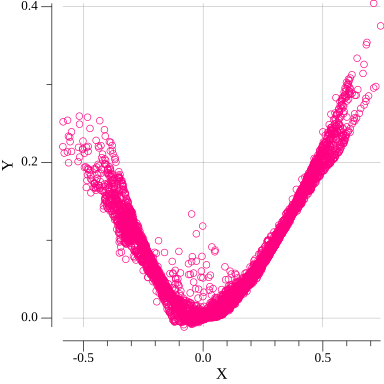
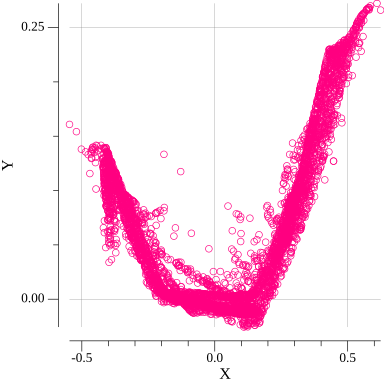
update MSE loss function + check if GANs examples still works correctly

diff --git a/cmd/examples/generate_smiley_face/main.go b/cmd/examples/generate_smiley_face/main.go
@@ -122,7 +122,7 @@ func main() {
 
 	// Define loss function for GAN as
 	targetDiscriminatorGAN := gorgonia.NewTensor(ganGraph, gorgonia.Float64, definedGAN.Out().Dims(), gorgonia.WithShape(definedGAN.Out().Shape()...), gorgonia.WithName("gan_discriminator_target"))
-	cost, err := gan.MSELoss(definedGAN.Out(), targetDiscriminatorGAN, batchSize)
+	cost, err := gan.MSELoss(definedGAN.Out(), targetDiscriminatorGAN)
 	if err != nil {
 		panic(err)
 	}
@@ -135,7 +135,7 @@ func main() {
 
 	// Define loss function for Discriminator in training mode as
 	targetDiscriminatorTrain := gorgonia.NewTensor(trainDiscriminatorGraph, gorgonia.Float64, 2, gorgonia.WithShape(2*batchSize, 1), gorgonia.WithName("discriminator_target"))
-	costDiscriminatorTrain, err := gan.MSELoss(discriminatorTrain.Out(), targetDiscriminatorTrain, batchSize)
+	costDiscriminatorTrain, err := gan.MSELoss(discriminatorTrain.Out(), targetDiscriminatorTrain)
 	if err != nil {
 		panic(err)
 	}
@@ -426,7 +426,7 @@ func defineGenerator(g *gorgonia.ExprGraph) *gan.GeneratorNet {
 				WeightNode:   gen_w0,
 				BiasNode:     nil,
 				Type:         gan.LayerConvolutional,
-				Activation:   gan.Sigmoid,
+				Activation:   gan.Rectify,
 				KernelHeight: 3,
 				KernelWidth:  3,
 				Padding:      []int{0, 0},
@@ -445,7 +445,7 @@ func defineGenerator(g *gorgonia.ExprGraph) *gan.GeneratorNet {
 				WeightNode:   gen_w1,
 				BiasNode:     nil,
 				Type:         gan.LayerConvolutional,
-				Activation:   gan.Sigmoid,
+				Activation:   gan.Rectify,
 				KernelHeight: 3,
 				KernelWidth:  3,
 				Padding:      []int{0, 0},
@@ -464,7 +464,7 @@ func defineGenerator(g *gorgonia.ExprGraph) *gan.GeneratorNet {
 				WeightNode:   gen_w2,
 				BiasNode:     nil,
 				Type:         gan.LayerConvolutional,
-				Activation:   gan.Sigmoid,
+				Activation:   gan.Rectify,
 				KernelHeight: 3,
 				KernelWidth:  3,
 				Padding:      []int{0, 0},
@@ -483,7 +483,7 @@ func defineGenerator(g *gorgonia.ExprGraph) *gan.GeneratorNet {
 				WeightNode:   gen_w3,
 				BiasNode:     nil,
 				Type:         gan.LayerConvolutional,
-				Activation:   gan.Sigmoid,
+				Activation:   gan.Rectify,
 				KernelHeight: 3,
 				KernelWidth:  3,
 				Padding:      []int{0, 0},

diff --git a/cmd/examples/parabola/main.go b/cmd/examples/parabola/main.go
@@ -99,46 +99,26 @@ func main() {
 	tmGenerator := gorgonia.NewTapeMachine(ganGraph)
 	defer tmGenerator.Close()
 
-	// Define loss function for GAN as
-	// loss{i} = (gan_out{i} - target{i})^2
 	targetDiscriminatorGAN := gorgonia.NewMatrix(ganGraph, gorgonia.Float64, gorgonia.WithShape(definedGAN.Out().Shape()...), gorgonia.WithName("gan_discriminator_target"))
-	lossDiscriminatorGAN := gorgonia.Must(
-		gorgonia.Square(
-			gorgonia.Must(
-				gorgonia.Sub(
-					definedGAN.Out(),
-					targetDiscriminatorGAN,
-				),
-			),
-		),
-	)
-	gorgonia.WithName("gan_discriminator_loss")(lossDiscriminatorGAN)
-	// Define cost function for GAN as
-	// cost = AVG(loss{i=1...N})
-	cost := gorgonia.Must(gorgonia.Mean(lossDiscriminatorGAN))
+	/* Define cost for GAN as*/
+	cost, err := gan.MSELoss(definedGAN.Out(), targetDiscriminatorGAN)
+	if err != nil {
+		panic(err)
+	}
+	gorgonia.WithName("gan_discriminator_loss")(cost)
 	// Define gradients for GAN
 	_, err = gorgonia.Grad(cost, definedGAN.Learnables()...)
 	if err != nil {
 		panic(err)
 	}
 
-	// Define loss function for Discriminator in training mode as
-	// loss{i} = (gan_out{i} - target{i})^2
 	targetDiscriminatorTrain := gorgonia.NewMatrix(trainDiscriminatorGraph, gorgonia.Float64, gorgonia.WithShape(2*batchSize, 1), gorgonia.WithName("discriminator_target"))
-	losses0_train := gorgonia.Must(
-		gorgonia.Square(
-			gorgonia.Must(
-				gorgonia.Sub(
-					discriminatorTrain.Out(),
-					targetDiscriminatorTrain,
-				),
-			),
-		),
-	)
-	gorgonia.WithName("discriminator_loss")(losses0_train)
-	// Define cost function for Discriminator in training mode as
-	// cost = AVG(loss{i=1...N})
-	costDiscriminatorTrain := gorgonia.Must(gorgonia.Mean(losses0_train))
+	/* Define cost for Distriminator in training mode as*/
+	costDiscriminatorTrain, err := gan.MSELoss(discriminatorTrain.Out(), targetDiscriminatorTrain)
+	if err != nil {
+		panic(err)
+	}
+	gorgonia.WithName("discriminator_loss")(costDiscriminatorTrain)
 	// Define gradients for Discriminator in training mode
 	_, err = gorgonia.Grad(costDiscriminatorTrain, discriminatorTrain.Learnables()...)
 	if err != nil {

diff --git a/cmd/examples/sin/main.go b/cmd/examples/sin/main.go
@@ -99,46 +99,26 @@ func main() {
 	tmGenerator := gorgonia.NewTapeMachine(ganGraph)
 	defer tmGenerator.Close()
 
-	// Define loss function for GAN as
-	// loss{i} = (gan_out{i} - target{i})^2
 	targetDiscriminatorGAN := gorgonia.NewMatrix(ganGraph, gorgonia.Float64, gorgonia.WithShape(definedGAN.Out().Shape()...), gorgonia.WithName("gan_discriminator_target"))
-	lossDiscriminatorGAN := gorgonia.Must(
-		gorgonia.Square(
-			gorgonia.Must(
-				gorgonia.Sub(
-					definedGAN.Out(),
-					targetDiscriminatorGAN,
-				),
-			),
-		),
-	)
-	gorgonia.WithName("gan_discriminator_loss")(lossDiscriminatorGAN)
-	// Define cost function for GAN as
-	// cost = AVG(loss{i=1...N})
-	cost := gorgonia.Must(gorgonia.Mean(lossDiscriminatorGAN))
+	/* Define cost for GAN as*/
+	cost, err := gan.MSELoss(definedGAN.Out(), targetDiscriminatorGAN)
+	if err != nil {
+		panic(err)
+	}
+	gorgonia.WithName("gan_discriminator_loss")(cost)
 	// Define gradients for GAN
 	_, err = gorgonia.Grad(cost, definedGAN.Learnables()...)
 	if err != nil {
 		panic(err)
 	}
 
-	// Define loss function for Discriminator in training mode as
-	// loss{i} = (gan_out{i} - target{i})^2
 	targetDiscriminatorTrain := gorgonia.NewMatrix(trainDiscriminatorGraph, gorgonia.Float64, gorgonia.WithShape(2*batchSize, 1), gorgonia.WithName("discriminator_target"))
-	losses0_train := gorgonia.Must(
-		gorgonia.Square(
-			gorgonia.Must(
-				gorgonia.Sub(
-					discriminatorTrain.Out(),
-					targetDiscriminatorTrain,
-				),
-			),
-		),
-	)
-	gorgonia.WithName("discriminator_loss")(losses0_train)
-	// Define cost function for Discriminator in training mode as
-	// cost = AVG(loss{i=1...N})
-	costDiscriminatorTrain := gorgonia.Must(gorgonia.Mean(losses0_train))
+	/* Define cost for Distriminator in training mode as*/
+	costDiscriminatorTrain, err := gan.MSELoss(discriminatorTrain.Out(), targetDiscriminatorTrain)
+	if err != nil {
+		panic(err)
+	}
+	gorgonia.WithName("discriminator_loss")(costDiscriminatorTrain)
 	// Define gradients for Discriminator in training mode
 	_, err = gorgonia.Grad(costDiscriminatorTrain, discriminatorTrain.Learnables()...)
 	if err != nil {

diff --git a/cmd/examples/generate_symbol/main.go b/cmd/examples/generate_symbol/main.go
@@ -114,7 +114,7 @@ func main() {
 
 	targetDiscriminatorGAN := gorgonia.NewMatrix(ganGraph, gorgonia.Float64, gorgonia.WithShape(definedGAN.Out().Shape()...), gorgonia.WithName("gan_discriminator_target"))
 	/* Define cost for GAN as*/
-	cost, err := gan.MSELoss(definedGAN.Out(), targetDiscriminatorGAN, batchSize)
+	cost, err := gan.MSELoss(definedGAN.Out(), targetDiscriminatorGAN)
 	if err != nil {
 		panic(err)
 	}
@@ -125,14 +125,13 @@ func main() {
 		panic(err)
 	}
 
-	// Define loss function for Discriminator in training mode as
 	targetDiscriminatorTrain := gorgonia.NewMatrix(trainDiscriminatorGraph, gorgonia.Float64, gorgonia.WithShape(2*batchSize, 1), gorgonia.WithName("discriminator_target"))
 	/* Define cost for Distriminator in training mode as*/
-	costDiscriminatorTrain, err := gan.MSELoss(discriminatorTrain.Out(), targetDiscriminatorTrain, batchSize)
+	costDiscriminatorTrain, err := gan.MSELoss(discriminatorTrain.Out(), targetDiscriminatorTrain)
 	if err != nil {
 		panic(err)
 	}
-	gorgonia.WithName("discriminator_loss")(cost)
+	gorgonia.WithName("discriminator_loss")(costDiscriminatorTrain)
 	// Define gradients for Discriminator in training mode
 	_, err = gorgonia.Grad(costDiscriminatorTrain, discriminatorTrain.Learnables()...)
 	if err != nil {

diff --git a/loss.go b/loss.go
@@ -16,30 +16,21 @@ const (
 
 // MSELoss See ref. https://en.wikipedia.org/wiki/Mean_squared_error
 // Default reduction is 'mean'
-func MSELoss(a, b *gorgonia.Node, batchSize int, reduction ...LossReduction) (*gorgonia.Node, error) {
+func MSELoss(a, b *gorgonia.Node, reduction ...LossReduction) (*gorgonia.Node, error) {
 	var err error
 	var sub *gorgonia.Node
-	if batchSize < 2 {
-		sub, err = gorgonia.Sub(a, b)
-		if err != nil {
-			return nil, err
-		}
-	} else {
-		sub, err = gorgonia.BroadcastSub(a, b, []byte{0}, nil)
-		if err != nil {
-			return nil, err
-		}
+	sub, err = gorgonia.Sub(a, b)
+	if err != nil {
+		return nil, err
 	}
 	sqr, err := gorgonia.Square(sub)
 	if err != nil {
 		return nil, err
 	}
-
 	reductionDefault := LossReductionMean
 	if len(reduction) != 0 {
 		reductionDefault = reduction[0]
 	}
-
 	switch reductionDefault {
 	case LossReductionSum:
 		return gorgonia.Sum(sqr)

diff --git a/cmd/examples/train_cnn/main.go b/cmd/examples/train_cnn/main.go
@@ -83,7 +83,7 @@ func main() {
 	gorgonia.Read(simpleCNN.Out(), &cnnOut)
 
 	/* Prepare cost node */
-	cost, err := gan.MSELoss(simpleCNN.Out(), targetCNN, batchSize)
+	cost, err := gan.MSELoss(simpleCNN.Out(), targetCNN)
 	if err != nil {
 		panic(err)
 	}

diff --git a/README.md b/README.md
@@ -103,7 +103,9 @@ Current stage of TODO list:
 - [x] Reduce duplicating of code for *.Fwd()* method of each neural network type (GAN/Discriminator/Generator)
 - [ ] Switch **Layer** from *struct* to *interface*
 - [x] Add basic layers: Linear, Convolutional, Maxpool, Flatten
-- [~] Deal with batch process
+- [ ] Deal with batch process 
+- [ ] More loss function **WIP**
+- [ ] Examples for text data generation
 
 ## Code explanation
 @TODO
